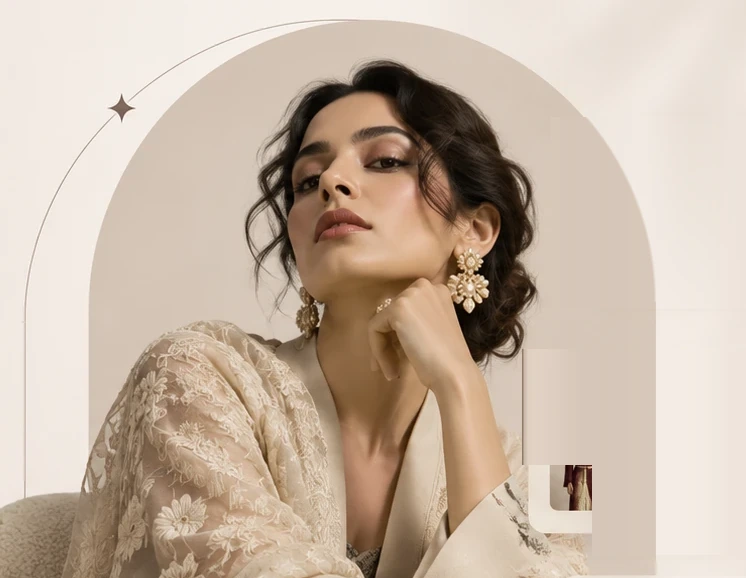
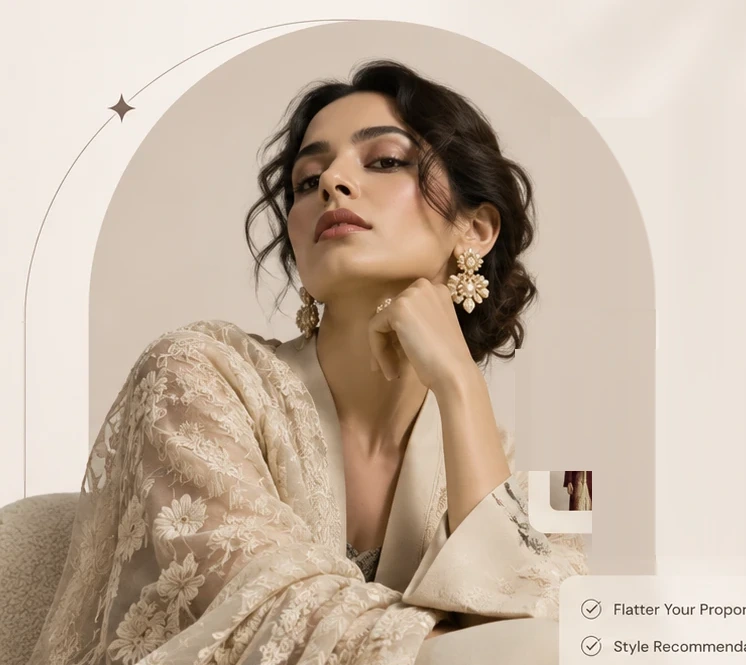
Tighter phone hero closer to the mobile design
- Shorter header and smaller logo on phones.
- Less space around headline, paragraph and buttons; 44px buttons.
- Taller phone portrait showing more of the outfit, cards sitting lower
  over it, and a cleaner repaint of the arch edge behind them.
- Tablet and desktop unchanged.

Claude-Session: https://claude.ai/code/session_013AmMkooaCNc19dzhFnrV4U

diff --git a/components/Hero.tsx b/components/Hero.tsx
@@ -102,26 +102,26 @@ export default function Hero() {
       aria-labelledby="hero-title"
       className="relative overflow-hidden bg-[linear-gradient(to_bottom,transparent_60%,#f1ebe3),linear-gradient(100deg,#f6f1eb_0%,#f2eae2_55%,#ede4db_100%)] lg:flex lg:min-h-[max(100svh,calc(var(--hero-w)*0.805+6rem))] lg:items-center lg:[--hero-w:min(50vw,calc((100svh-6rem)/0.805))] xl:[--hero-w:min(58vw,calc((100svh-6rem)/0.805),68rem)]"
     >
-      <div className="container-x relative z-10 pt-28 sm:pt-36 lg:pt-28 lg:pb-16">
+      <div className="container-x relative z-10 pt-[4.5rem] sm:pt-36 lg:pt-28 lg:pb-16">
         {/* Copy */}
         <div className="lg:max-w-[44vw] xl:max-w-[min(42vw,40rem)]">
           <p className="eyebrow">Personal Fashion Consulting</p>
           <h1
             id="hero-title"
-            className="mt-6 font-serif text-[2.4rem] leading-[1.08] min-[400px]:text-[2.6rem] font-medium text-charcoal sm:text-6xl lg:text-[4.1rem] xl:text-[4.6rem]"
+            className="mt-3 font-serif text-[2.55rem] leading-[1.05] min-[400px]:text-[2.75rem] sm:mt-6 font-medium text-charcoal sm:text-6xl lg:text-[4.1rem] xl:text-[4.6rem]"
           >
             Style is personal.
             <span className="mt-1 block text-chocolate italic">Let us make it yours.</span>
           </h1>
-          <p className="mt-8 max-w-xl text-lg text-muted sm:text-xl">
+          <p className="mt-3 max-w-xl text-[0.94rem] leading-normal text-muted min-[400px]:text-base sm:mt-8 sm:text-xl sm:leading-[1.7]">
             Discover your proportions, understand your style, and find the looks that celebrate you. Personalised
             fashion guidance designed around <strong className="font-medium text-charcoal">you</strong>.
           </p>
-          <div className="mt-10 flex flex-col gap-4 sm:flex-row">
-            <a href="/start" className="btn-primary rounded-lg text-lg md:rounded-none">
+          <div className="mt-5 flex flex-col gap-2.5 sm:mt-10 sm:flex-row sm:gap-4">
+            <a href="/start" className="btn-primary rounded-lg text-lg max-sm:min-h-11 max-sm:text-base md:rounded-none">
               Start Your Consultation <ArrowRight size={20} strokeWidth={1.5} aria-hidden />
             </a>
-            <a href="#services" className="btn-secondary rounded-lg text-lg md:rounded-none">
+            <a href="#services" className="btn-secondary rounded-lg text-lg max-sm:min-h-11 max-sm:text-base md:rounded-none">
               Explore Our Services
             </a>
           </div>
@@ -139,10 +139,10 @@ export default function Hero() {
 
       {/* Phones: full arch photo, three cards overlapping its lower edge, then the feature row */}
       <div className="md:hidden">
-        <div className="relative mx-auto mt-8 max-w-[32rem]">
+        <div className="relative mx-auto mt-3 w-[90%] max-w-[29rem]">
           <Image src={heroMobile} alt={alt} sizes="(min-width: 512px) 32rem, 100vw" placeholder="blur" preload className="h-auto w-full" style={mobileFade} />
         </div>
-        <div aria-hidden className="relative z-10 mx-auto -mt-[30vw] grid max-w-[32rem] grid-cols-[minmax(0,1fr)_minmax(0,1.12fr)_minmax(0,1.12fr)] gap-1.5 px-2 text-[0.64rem] leading-snug min-[380px]:text-[0.68rem] min-[400px]:text-[0.72rem] min-[440px]:text-[0.8rem]">
+        <div aria-hidden className="relative z-10 mx-auto -mt-[24vw] grid max-w-[32rem] grid-cols-[minmax(0,1fr)_minmax(0,1.12fr)_minmax(0,1.12fr)] gap-1.5 px-2 text-[0.64rem] leading-snug min-[380px]:text-[0.68rem] min-[400px]:text-[0.72rem] min-[440px]:text-[0.8rem]">
           <Reveal delay={0.1} className="h-full">
             <div className={`${card} flex h-full flex-col rounded-xl p-2 min-[380px]:p-2.5`}>
               <p className="flex items-center justify-between gap-1 font-medium text-charcoal min-[360px]:whitespace-nowrap">
@@ -175,11 +175,11 @@ export default function Hero() {
             </ul>
           </Reveal>
         </div>
-        <ul className="container-x mt-8 grid grid-cols-3 divide-x divide-taupe/50 pb-12">
+        <ul className="container-x mt-6 grid grid-cols-3 divide-x divide-taupe/50 pb-10">
           {features.map(({ label, Icon }) => (
             <li key={label} className="flex flex-col items-center gap-2.5 px-1 text-center">
-              <Icon className="h-8 w-8 text-chocolate" aria-hidden />
-              <span className="text-[0.92rem] leading-snug font-medium text-charcoal">{label}</span>
+              <Icon className="h-7 w-7 text-chocolate" aria-hidden />
+              <span className="text-[0.85rem] leading-snug font-medium text-charcoal">{label}</span>
             </li>
           ))}
         </ul>

diff --git a/components/Header.tsx b/components/Header.tsx
@@ -34,7 +34,7 @@ export default function Header({ logo }: { logo: ReactNode }) {
         scrolled || open ? "bg-ivory/95 shadow-[0_1px_0_rgba(73,55,46,0.08)] backdrop-blur-sm" : "bg-transparent"
       }`}
     >
-      <div className="container-x flex h-24 items-center justify-between gap-6">
+      <div className="container-x flex h-16 items-center sm:h-24 justify-between gap-6">
         <a href="#home" aria-label="NAZAAKAT — back to top" onClick={close} className="shrink-0">
           {logo}
         </a>
@@ -69,7 +69,7 @@ export default function Header({ logo }: { logo: ReactNode }) {
       </div>
 
       {open && (
-        <nav id="mobile-menu" aria-label="Mobile" className="h-[calc(100dvh-6rem)] overflow-y-auto bg-ivory lg:hidden">
+        <nav id="mobile-menu" aria-label="Mobile" className="h-[calc(100dvh-4rem)] sm:h-[calc(100dvh-6rem)] overflow-y-auto bg-ivory lg:hidden">
           <ul className="container-x flex flex-col pt-4">
             {nav.map((item) => (
               <li key={item.href} className="border-b border-beige">

diff --git a/components/Logo.tsx b/components/Logo.tsx
@@ -3,7 +3,7 @@ import { findPublicFile } from "@/lib/media";
 
 // Renders the supplied brand logo from /public (logo.svg, logo.png or logo.webp).
 // Until the file is added, a plain text name is shown — it is a placeholder, not a logo.
-export default function Logo({ className = "h-16 w-28 sm:h-[5.25rem]", tone = "dark" }: { className?: string; tone?: "dark" | "light" }) {
+export default function Logo({ className = "h-12 w-20 sm:h-[5.25rem] sm:w-28", tone = "dark" }: { className?: string; tone?: "dark" | "light" }) {
   const src = findPublicFile("logo.svg", "logo.png", "logo.webp");
 
   if (src) {
